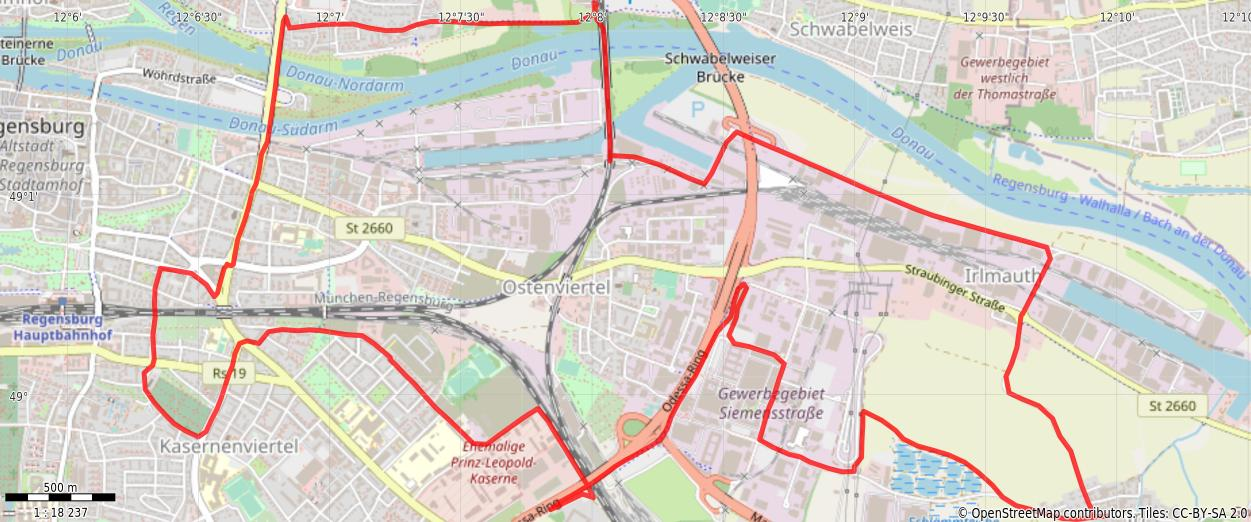
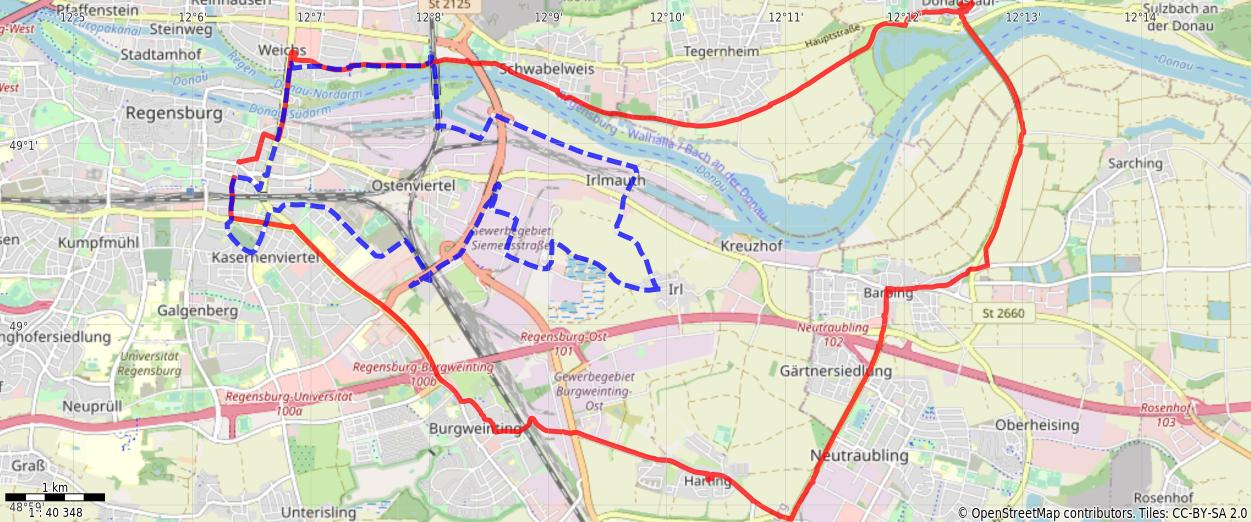
oops, forgot the text, adjusted the map

diff --git a/public/posts/bikerides/20220306/index.html b/public/posts/bikerides/20220306/index.html
@@ -6,8 +6,7 @@
 <meta name=viewport content="width=device-width,initial-scale=1,shrink-to-fit=no">
 <meta name=robots content="index, follow">
 <title>Weird Loop im Stadtosten | cliff1976</title><meta name=keywords content>
-<meta name=description content="Snaps Route You might need to tap or click the map to make it bigger.
- Stats Total Distance: 16 km Time: 1:16 Calories: 861 Calories from fat: 17 % Average Heart Rate: 130 Maximum Heart Rate: 160 Fat Burn: 0:09 Fitness: 1:07 ">
+<meta name=description content="I&rsquo;m still getting back into the swing of biking. This time I remembered to wear my delicate-biker-tushy-underwear, but I still got cold kinda early (trying out a new helmet I bought for the summer, with much better airflow&mldr;not ready for that quite yet, I guess). So I turned south early and hopped the river a couple times before coming back via Irl and the Conti test track instead of Donaustauf, Barbing, and Harting.">
 <meta name=author content="cliff1976">
 <link rel=canonical href=https://fat.cliff1976.net/posts/bikerides/20220306/>
 <link crossorigin=anonymous href=/assets/css/stylesheet.min.css rel="preload stylesheet" as=style>
@@ -20,8 +19,7 @@
 <meta name=msapplication-TileColor content="#2e2e33">
 <meta name=generator content="Hugo 0.93.2">
 <meta property="og:title" content="Weird Loop im Stadtosten">
-<meta property="og:description" content="Snaps Route You might need to tap or click the map to make it bigger.
- Stats Total Distance: 16 km Time: 1:16 Calories: 861 Calories from fat: 17 % Average Heart Rate: 130 Maximum Heart Rate: 160 Fat Burn: 0:09 Fitness: 1:07 ">
+<meta property="og:description" content="I&rsquo;m still getting back into the swing of biking. This time I remembered to wear my delicate-biker-tushy-underwear, but I still got cold kinda early (trying out a new helmet I bought for the summer, with much better airflow&mldr;not ready for that quite yet, I guess). So I turned south early and hopped the river a couple times before coming back via Irl and the Conti test track instead of Donaustauf, Barbing, and Harting.">
 <meta property="og:type" content="article">
 <meta property="og:url" content="https://fat.cliff1976.net/posts/bikerides/20220306/"><meta property="og:image" content="https://fat.cliff1976.net/%3Clink%20or%20path%20of%20image%20for%20opengraph,%20twitter-cards%3E"><meta property="article:section" content="posts">
 <meta property="article:published_time" content="2022-03-06T00:00:00+00:00">
@@ -29,10 +27,9 @@
 <meta name=twitter:card content="summary_large_image">
 <meta name=twitter:image content="https://fat.cliff1976.net/%3Clink%20or%20path%20of%20image%20for%20opengraph,%20twitter-cards%3E">
 <meta name=twitter:title content="Weird Loop im Stadtosten">
-<meta name=twitter:description content="Snaps Route You might need to tap or click the map to make it bigger.
- Stats Total Distance: 16 km Time: 1:16 Calories: 861 Calories from fat: 17 % Average Heart Rate: 130 Maximum Heart Rate: 160 Fat Burn: 0:09 Fitness: 1:07 ">
+<meta name=twitter:description content="I&rsquo;m still getting back into the swing of biking. This time I remembered to wear my delicate-biker-tushy-underwear, but I still got cold kinda early (trying out a new helmet I bought for the summer, with much better airflow&mldr;not ready for that quite yet, I guess). So I turned south early and hopped the river a couple times before coming back via Irl and the Conti test track instead of Donaustauf, Barbing, and Harting.">
 <script type=application/ld+json>{"@context":"https://schema.org","@type":"BreadcrumbList","itemListElement":[{"@type":"ListItem","position":1,"name":"Posts","item":"https://fat.cliff1976.net/posts/"},{"@type":"ListItem","position":2,"name":"Bike Rides","item":"https://fat.cliff1976.net/posts/bikerides/"},{"@type":"ListItem","position":3,"name":"Weird Loop im Stadtosten","item":"https://fat.cliff1976.net/posts/bikerides/20220306/"}]}</script>
-<script type=application/ld+json>{"@context":"https://schema.org","@type":"BlogPosting","headline":"Weird Loop im Stadtosten","name":"Weird Loop im Stadtosten","description":"Snaps Route You might need to tap or click the map to make it bigger.\n Stats Total Distance: 16 km Time: 1:16 Calories: 861 Calories from fat: 17 % Average Heart Rate: 130 Maximum Heart Rate: 160 Fat Burn: 0:09 Fitness: 1:07 ","keywords":[],"articleBody":"Snaps Route You might need to tap or click the map to make it bigger.\n Stats Total Distance: 16 km Time: 1:16 Calories: 861 Calories from fat: 17 % Average Heart Rate: 130 Maximum Heart Rate: 160 Fat Burn: 0:09 Fitness: 1:07 ","wordCount":"42","inLanguage":"en","datePublished":"2022-03-06T00:00:00Z","dateModified":"2022-03-06T00:00:00Z","author":{"@type":"Person","name":"cliff1976"},"mainEntityOfPage":{"@type":"WebPage","@id":"https://fat.cliff1976.net/posts/bikerides/20220306/"},"publisher":{"@type":"Organization","name":"cliff1976","logo":{"@type":"ImageObject","url":"https://fat.cliff1976.net/%3Clink%20/%20abs%20url%3E"}}}</script>
+<script type=application/ld+json>{"@context":"https://schema.org","@type":"BlogPosting","headline":"Weird Loop im Stadtosten","name":"Weird Loop im Stadtosten","description":"I\u0026rsquo;m still getting back into the swing of biking. This time I remembered to wear my delicate-biker-tushy-underwear, but I still got cold kinda early (trying out a new helmet I bought for the summer, with much better airflow\u0026hellip;not ready for that quite yet, I guess). So I turned south early and hopped the river a couple times before coming back via Irl and the Conti test track instead of Donaustauf, Barbing, and Harting.","keywords":[],"articleBody":"I’m still getting back into the swing of biking. This time I remembered to wear my delicate-biker-tushy-underwear, but I still got cold kinda early (trying out a new helmet I bought for the summer, with much better airflow…not ready for that quite yet, I guess). So I turned south early and hopped the river a couple times before coming back via Irl and the Conti test track instead of Donaustauf, Barbing, and Harting. That cut my route down from about 25 to about 16 km, but…maybe next time.\nSnaps Route You might need to tap or click the map to make it bigger. The red solid route was my intention. The blue dashed route is my actual route.\n Stats Total Distance: 16 km Time: 1:16 Calories: 861 Calories from fat: 17 % Average Heart Rate: 130 Maximum Heart Rate: 160 Fat Burn: 0:09 Fitness: 1:07 ","wordCount":"145","inLanguage":"en","datePublished":"2022-03-06T00:00:00Z","dateModified":"2022-03-06T00:00:00Z","author":{"@type":"Person","name":"cliff1976"},"mainEntityOfPage":{"@type":"WebPage","@id":"https://fat.cliff1976.net/posts/bikerides/20220306/"},"publisher":{"@type":"Organization","name":"cliff1976","logo":{"@type":"ImageObject","url":"https://fat.cliff1976.net/%3Clink%20/%20abs%20url%3E"}}}</script>
 </head><body onload=setupZoom() id=top>
 <script>localStorage.getItem("pref-theme")==="dark"?document.body.classList.add("dark"):localStorage.getItem("pref-theme")==="light"?document.body.classList.remove("dark"):window.matchMedia("(prefers-color-scheme: dark)").matches&&document.body.classList.add("dark")</script>
 <noscript>
@@ -63,12 +60,12 @@
 <div class=breadcrumbs><a href=https://fat.cliff1976.net/>Home</a>&nbsp;»&nbsp;<a href=https://fat.cliff1976.net/posts/>Posts</a>&nbsp;»&nbsp;<a href=https://fat.cliff1976.net/posts/bikerides/>Bike Rides</a></div><h1 class=post-title>
 Weird Loop im Stadtosten
 </h1><div class=post-meta>March 6, 2022&nbsp;·&nbsp;cliff1976
-</div></header><div class=post-content><h2 id=snaps>Snaps<a hidden class=anchor aria-hidden=true href=#snaps>#</a></h2><p><img loading=lazy src=IMG220306-110204219_s.jpg alt>
+</div></header><div class=post-content><p>I&rsquo;m still getting back into the swing of biking. This time I remembered to wear my delicate-biker-tushy-underwear, but I still got cold kinda early (trying out a new helmet I bought for the summer, with much better airflow&mldr;not ready for that quite yet, I guess). So I turned south early and hopped the river a couple times before coming back via Irl and the Conti test track instead of Donaustauf, Barbing, and Harting. That cut my route down from about 25 to about 16 km, but&mldr;maybe next time.</p><h2 id=snaps>Snaps<a hidden class=anchor aria-hidden=true href=#snaps>#</a></h2><p><img loading=lazy src=IMG220306-110204219_s.jpg alt>
 <img loading=lazy src=IMG220306-111731F.JPG_s.jpg alt>
 <img loading=lazy src=IMG220306-112430F.JPG_s.jpg alt>
 <img loading=lazy src=IMG220306-113759457_s.jpg alt>
 <img loading=lazy src=IMG22306-111641475_s.jpg alt>
-</p><h2 id=route>Route<a hidden class=anchor aria-hidden=true href=#route>#</a></h2><p>You might need to tap or click the map to make it bigger.</p><a href=20220306.jpg alt><img src=20220306.jpg></a>
+</p><h2 id=route>Route<a hidden class=anchor aria-hidden=true href=#route>#</a></h2><p>You might need to tap or click the map to make it bigger. The red solid route was my intention. The blue dashed route is my actual route.</p><a href=20220306.jpg alt><img src=20220306.jpg></a>
 <h2 id=stats>Stats<a hidden class=anchor aria-hidden=true href=#stats>#</a></h2><pre tabindex=0><code>Total Distance:       16 km
 Time:               1:16
 Calories:            861

diff --git a/public/posts/bikerides/index.html b/public/posts/bikerides/index.html
@@ -56,8 +56,7 @@
 <header class=page-header><div class=breadcrumbs><a href=https://fat.cliff1976.net/>Home</a>&nbsp;»&nbsp;<a href=https://fat.cliff1976.net/posts/>Posts</a></div><h1>Bike Rides</h1></header><article class=post-entry>
 <header class=entry-header>
 <h2>Weird Loop im Stadtosten</h2></header><section class=entry-content>
-<p>Snaps Route You might need to tap or click the map to make it bigger.
-Stats Total Distance: 16 km Time: 1:16 Calories: 861 Calories from fat: 17 % Average Heart Rate: 130 Maximum Heart Rate: 160 Fat Burn: 0:09 Fitness: 1:07 </p></section><footer class=entry-footer>March 6, 2022&nbsp;·&nbsp;cliff1976</footer><a class=entry-link aria-label="post link to Weird Loop im Stadtosten" href=https://fat.cliff1976.net/posts/bikerides/20220306/></a>
+<p>I’m still getting back into the swing of biking. This time I remembered to wear my delicate-biker-tushy-underwear, but I still got cold kinda early (trying out a new helmet I bought for the summer, with much better airflow…not ready for that quite yet, I guess). So I turned south early and hopped the river a couple times before coming back via Irl and the Conti test track instead of Donaustauf, Barbing, and Harting....</p></section><footer class=entry-footer>March 6, 2022&nbsp;·&nbsp;cliff1976</footer><a class=entry-link aria-label="post link to Weird Loop im Stadtosten" href=https://fat.cliff1976.net/posts/bikerides/20220306/></a>
 </article><article class=post-entry>
 <header class=entry-header>
 <h2>Like a snail</h2></header><section class=entry-content>

diff --git a/public/index.html b/public/index.html
@@ -61,8 +61,7 @@
 </div></footer></article><article class=post-entry>
 <header class=entry-header>
 <h2>Weird Loop im Stadtosten</h2></header><section class=entry-content>
-<p>Snaps Route You might need to tap or click the map to make it bigger.
-Stats Total Distance: 16 km Time: 1:16 Calories: 861 Calories from fat: 17 % Average Heart Rate: 130 Maximum Heart Rate: 160 Fat Burn: 0:09 Fitness: 1:07 </p></section><footer class=entry-footer>March 6, 2022&nbsp;·&nbsp;cliff1976</footer><a class=entry-link aria-label="post link to Weird Loop im Stadtosten" href=https://fat.cliff1976.net/posts/bikerides/20220306/></a>
+<p>I’m still getting back into the swing of biking. This time I remembered to wear my delicate-biker-tushy-underwear, but I still got cold kinda early (trying out a new helmet I bought for the summer, with much better airflow…not ready for that quite yet, I guess). So I turned south early and hopped the river a couple times before coming back via Irl and the Conti test track instead of Donaustauf, Barbing, and Harting....</p></section><footer class=entry-footer>March 6, 2022&nbsp;·&nbsp;cliff1976</footer><a class=entry-link aria-label="post link to Weird Loop im Stadtosten" href=https://fat.cliff1976.net/posts/bikerides/20220306/></a>
 </article><article class=post-entry>
 <header class=entry-header>
 <h2>Like a snail</h2></header><section class=entry-content>

diff --git a/content/posts/bikerides/20220306/index.md b/content/posts/bikerides/20220306/index.md
@@ -3,7 +3,7 @@ title: "Weird Loop im Stadtosten"
 date: 2022-03-06
 draft: false
 ---
-
+I'm still getting back into the swing of biking.  This time I remembered to wear my delicate-biker-tushy-underwear, but I still got cold kinda early (trying out a new helmet I bought for the summer, with much better airflow...not ready for that quite yet, I guess).  So I turned south early and hopped the river a couple times before coming back via Irl and the Conti test track instead of Donaustauf, Barbing, and Harting.  That cut my route down from about 25 to about 16 km, but...maybe next time.
 
 
 ## Snaps
@@ -18,7 +18,7 @@ draft: false
 
 
 ## Route
-You might need to tap or click the map to make it bigger.
+You might need to tap or click the map to make it bigger.  The red solid route was my intention.  The blue dashed route is my actual route.
 
 {{< fzimg src="20220306.jpg" >}}
 
